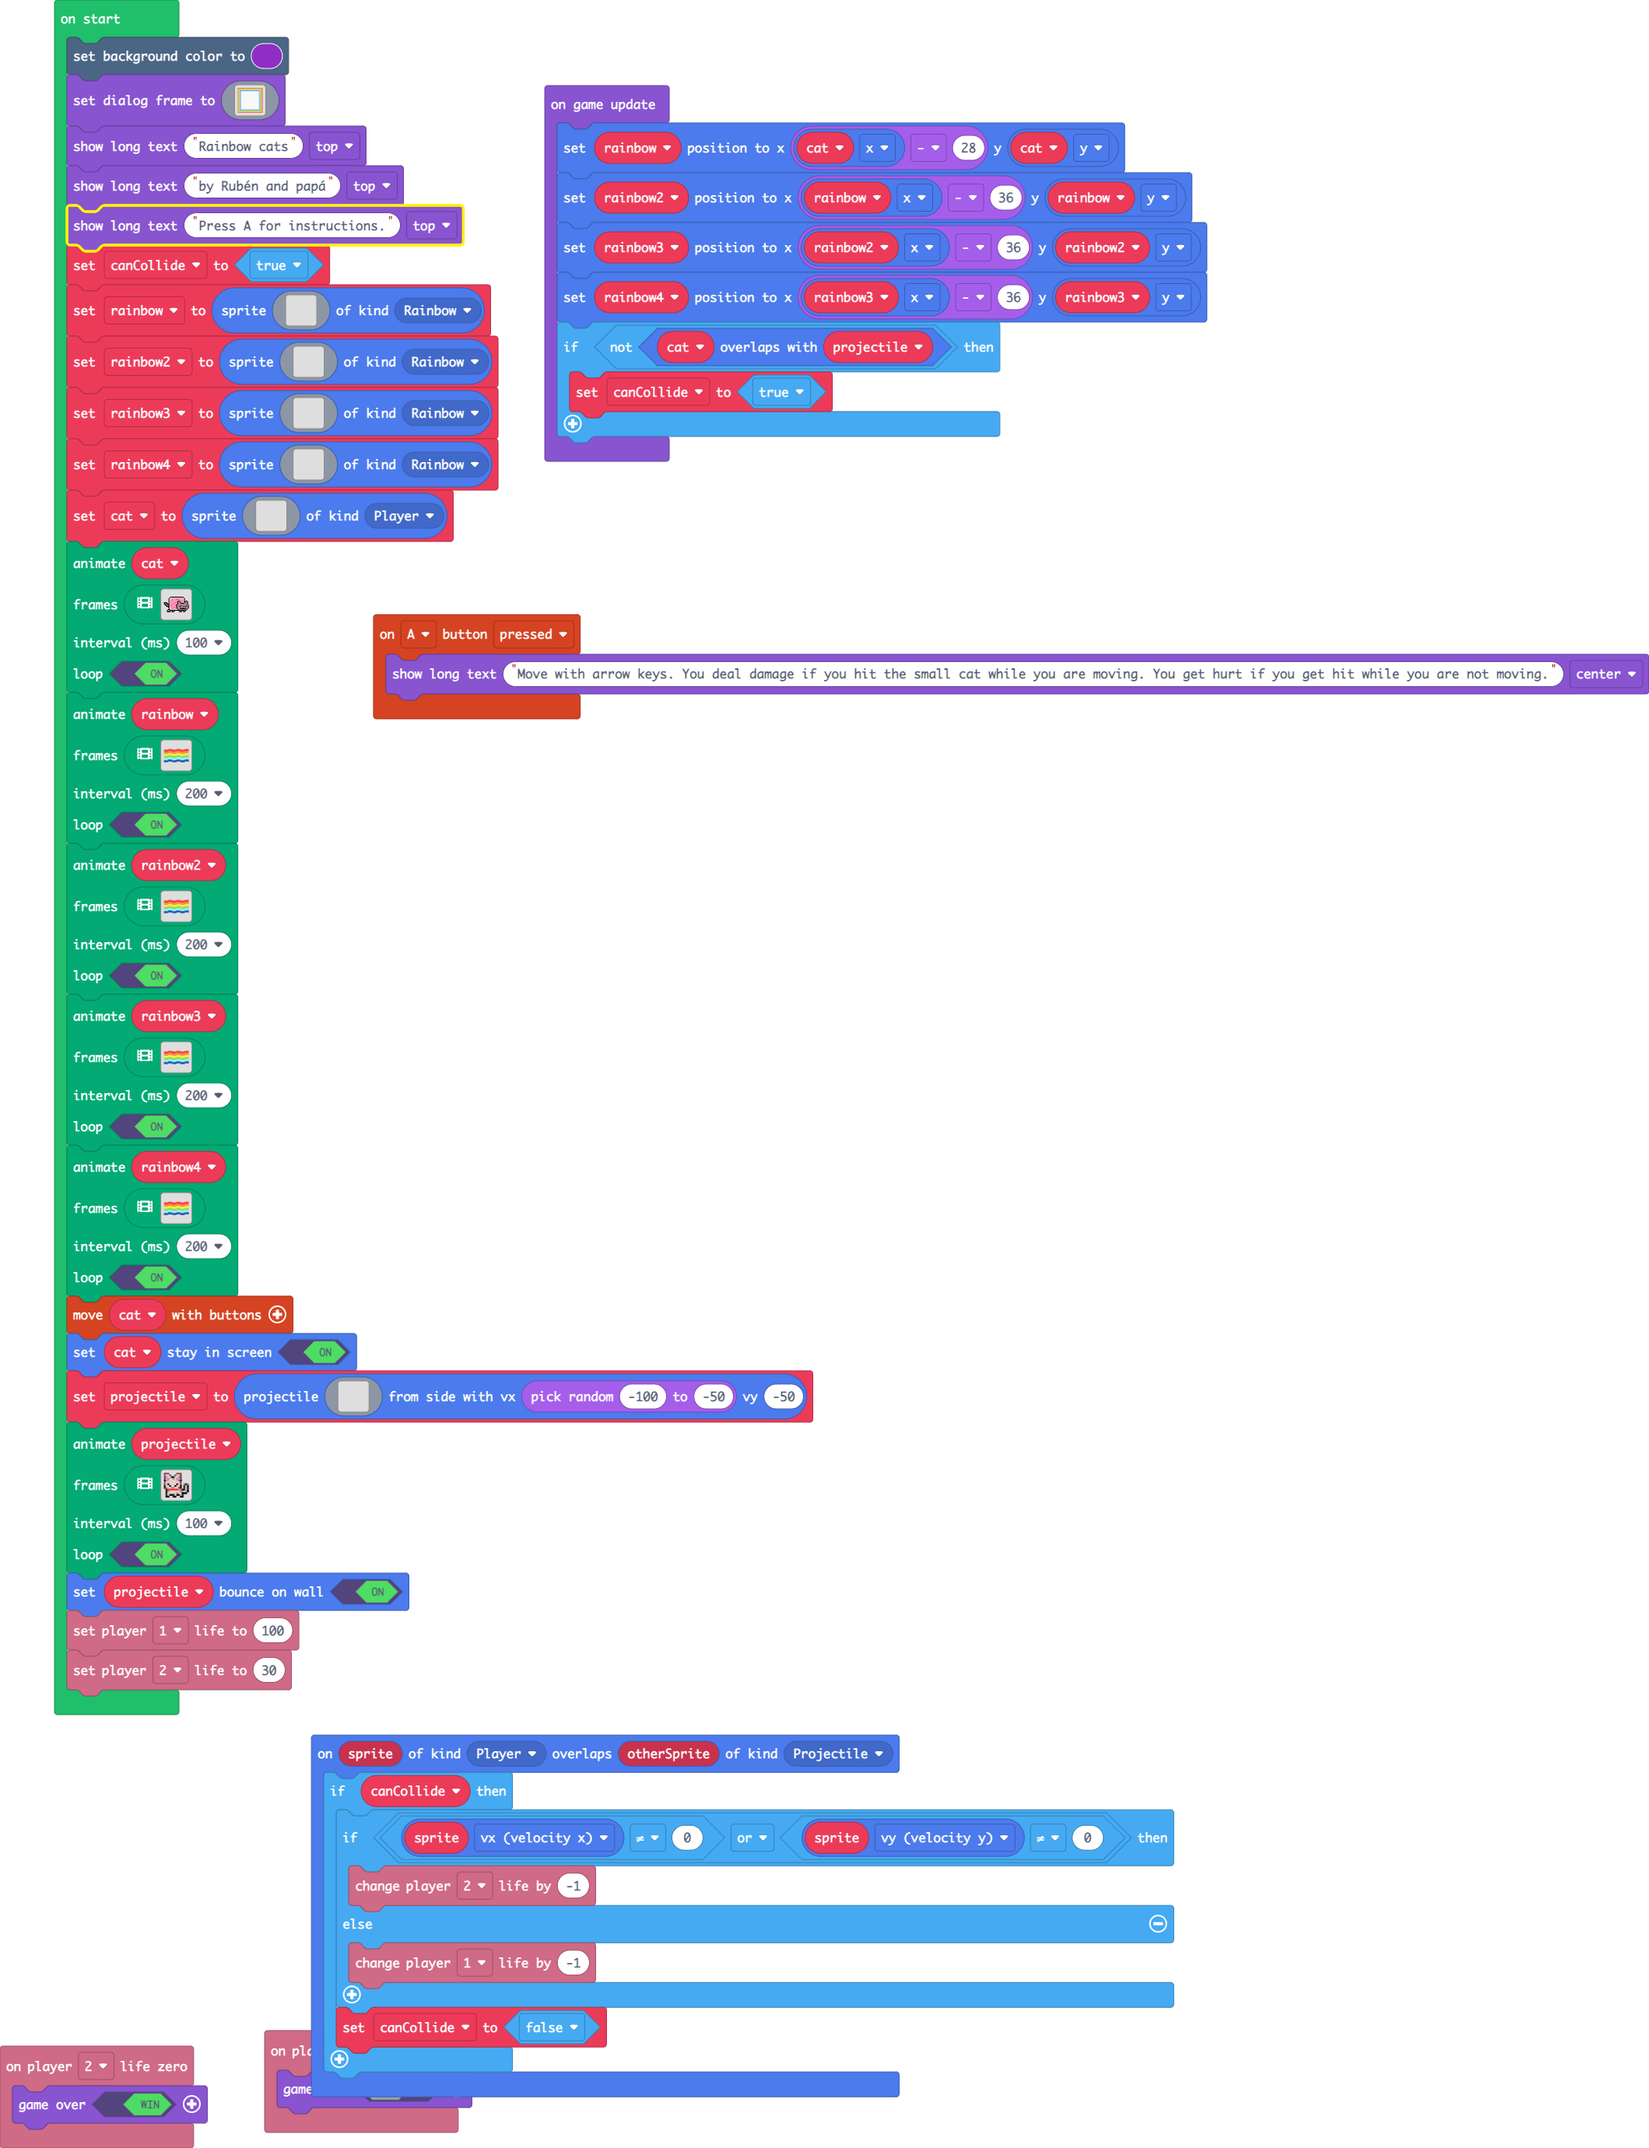
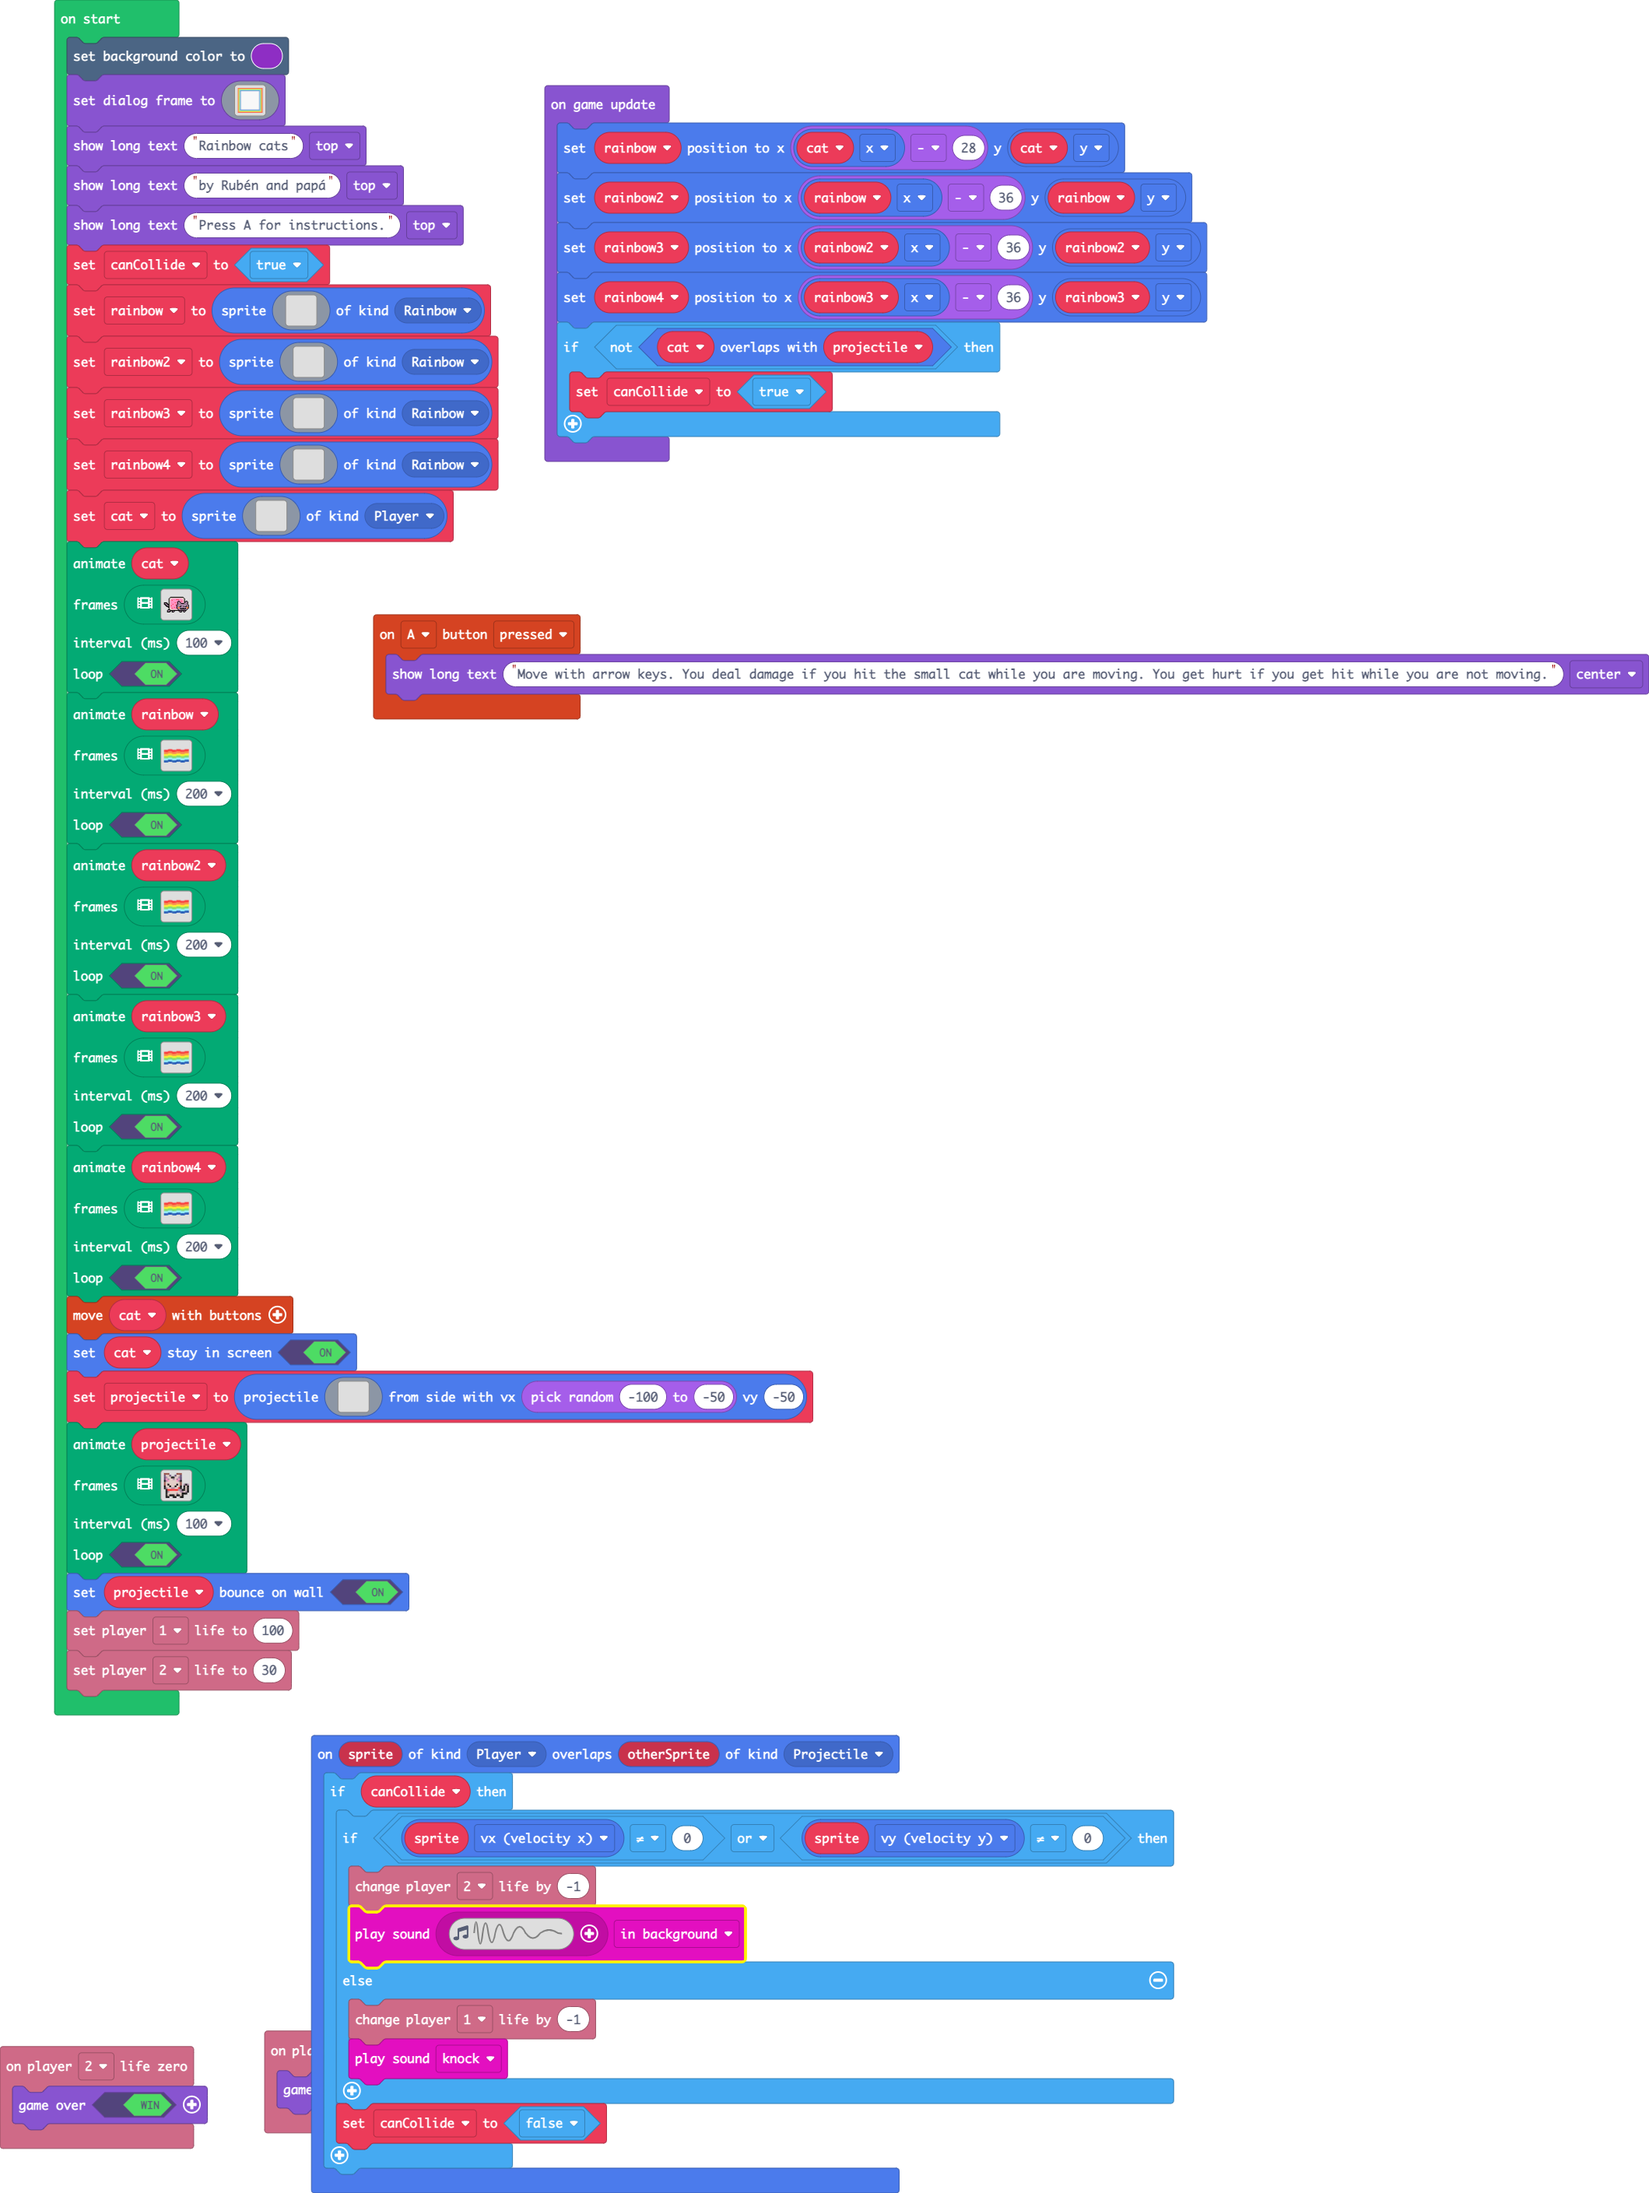
Update main.blocks, main.ts

Changed region(s): [[0.0311, 0.0, 1.0, 1.0], [0.3426, 0.0311, 0.7475, 0.218], [0.0, 0.9344, 0.1246, 1.0]]

diff --git a/main.ts b/main.ts
@@ -8,8 +8,10 @@ sprites.onOverlap(SpriteKind.Player, SpriteKind.Projectile, function (sprite, ot
     if (canCollide) {
         if (sprite.vx != 0 || sprite.vy != 0) {
             info.player2.changeLifeBy(-1)
+            music.playSoundEffect(music.createSoundEffect(WaveShape.Sine, 5000, 0, 255, 0, 500, SoundExpressionEffect.None, InterpolationCurve.Linear), SoundExpressionPlayMode.InBackground)
         } else {
             info.player1.changeLifeBy(-1)
+            music.knock.play()
         }
         canCollide = false
     }
